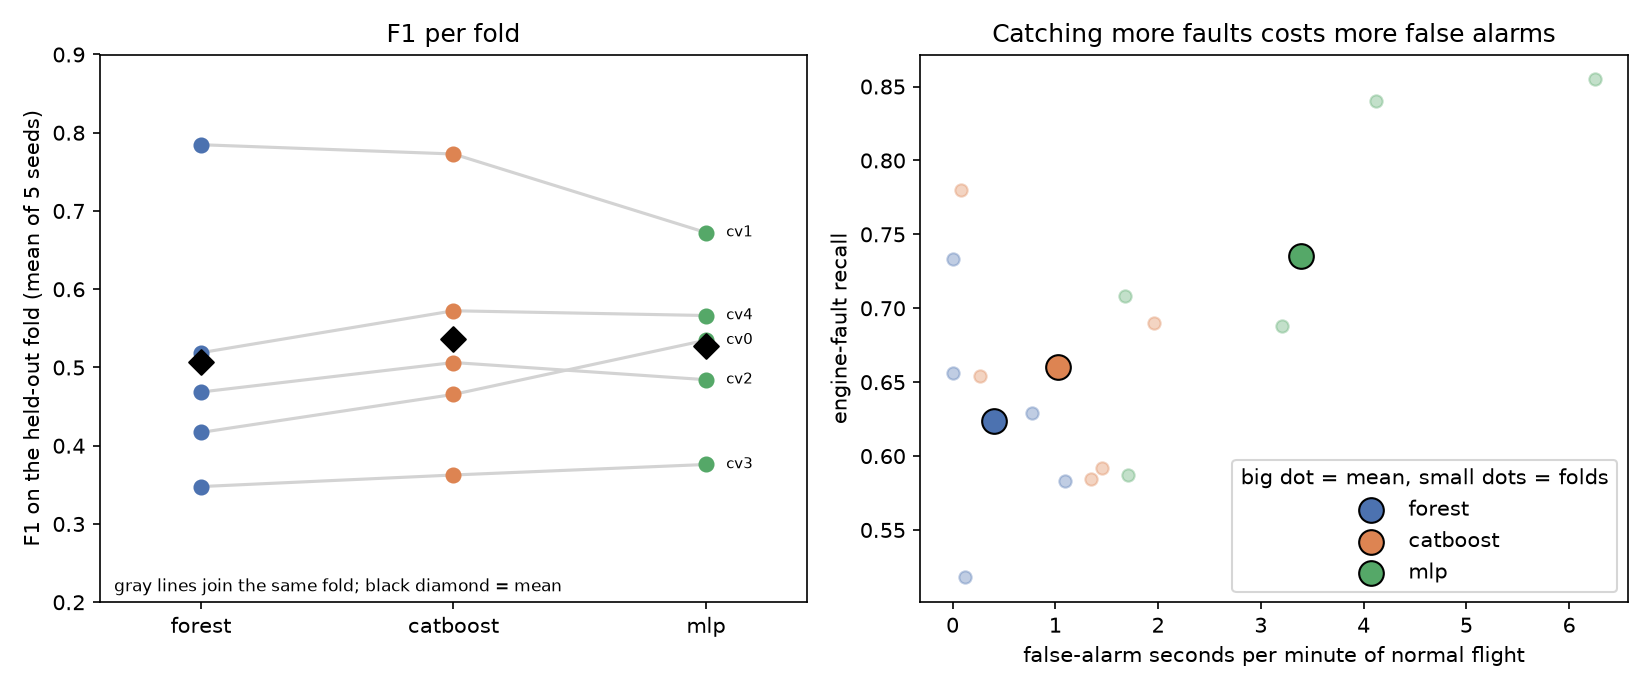
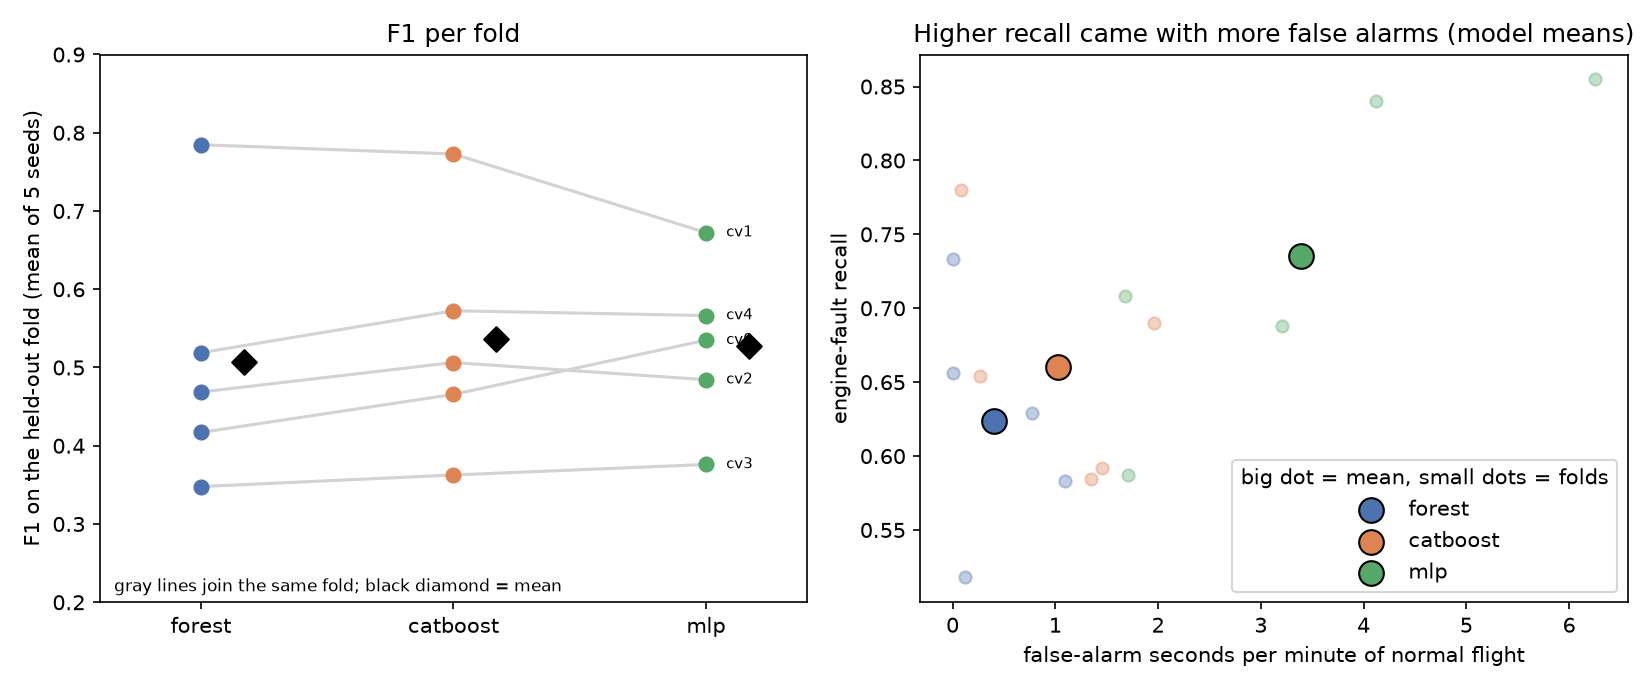
Fix model comparison figure and stop CatBoost writing log files

diff --git a/src/09_model_comparison.py b/src/09_model_comparison.py
@@ -42,7 +42,7 @@ def fit_predict(name, train, test, seed):
     if name == "catboost":
         model = CatBoostClassifier(iterations=300, depth=4, learning_rate=0.05,
                                    auto_class_weights="Balanced",
-                                   random_seed=seed, verbose=0)
+                                   random_seed=seed, verbose=0, allow_writing_files=False)
         model.fit(Xtr, ytr)
         return model.predict_proba(Xte)[:, 1]
 
